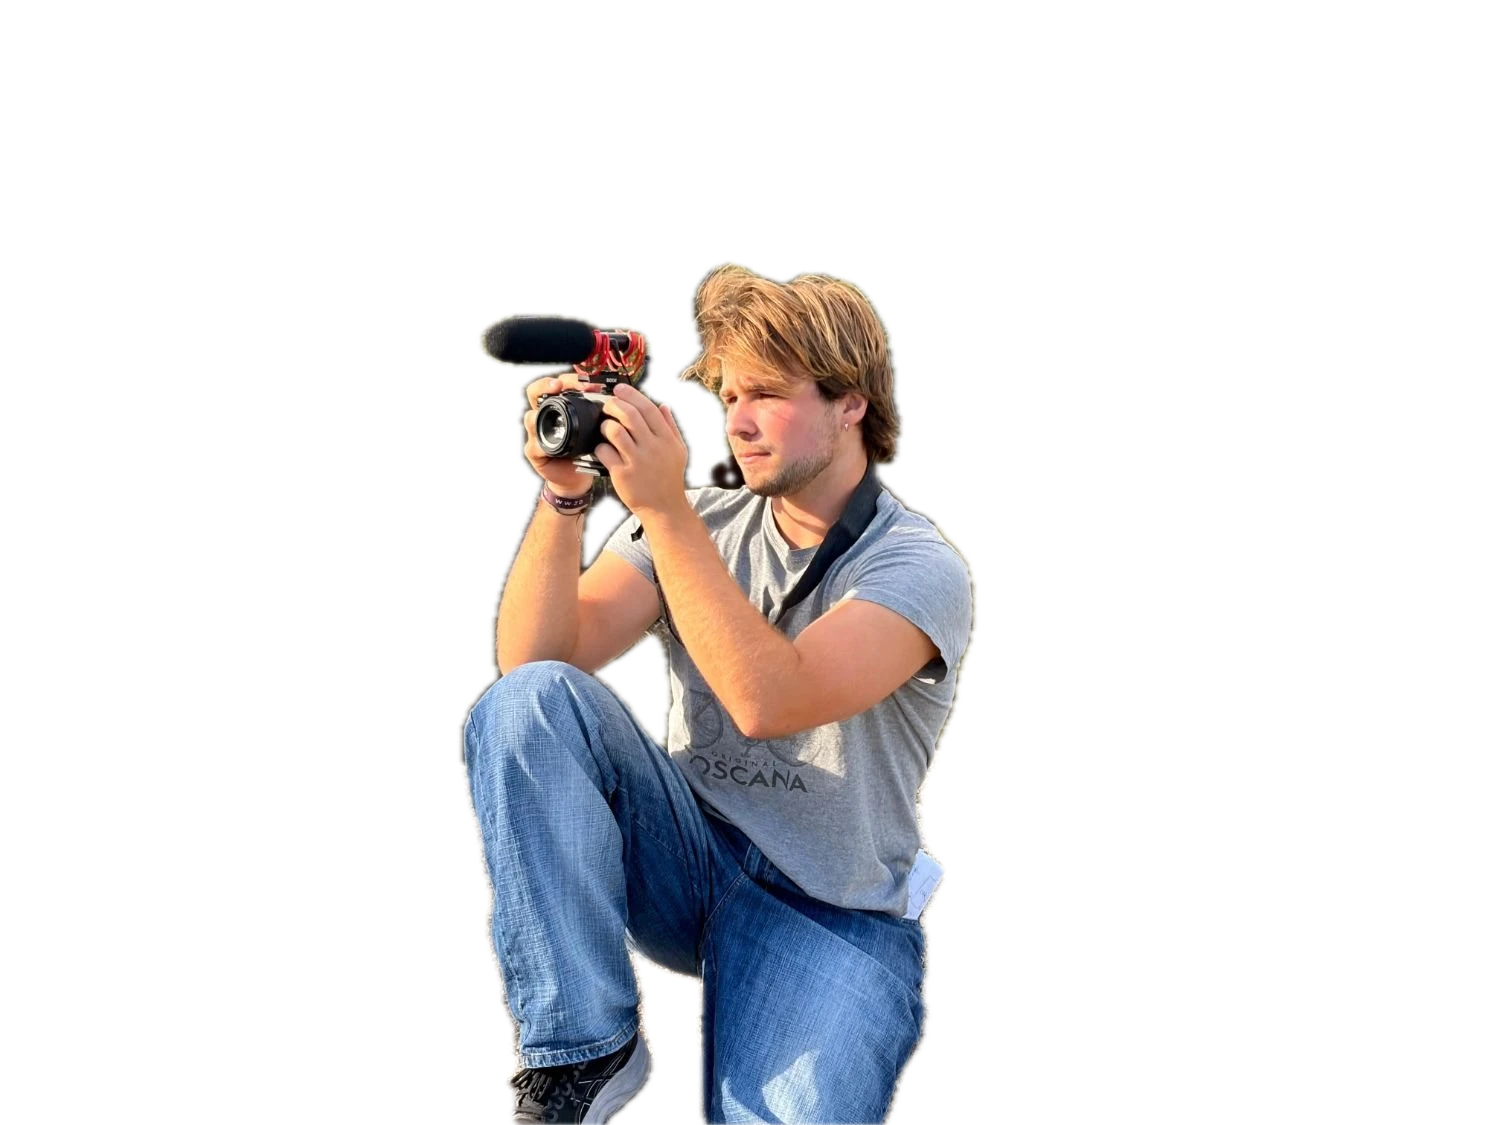
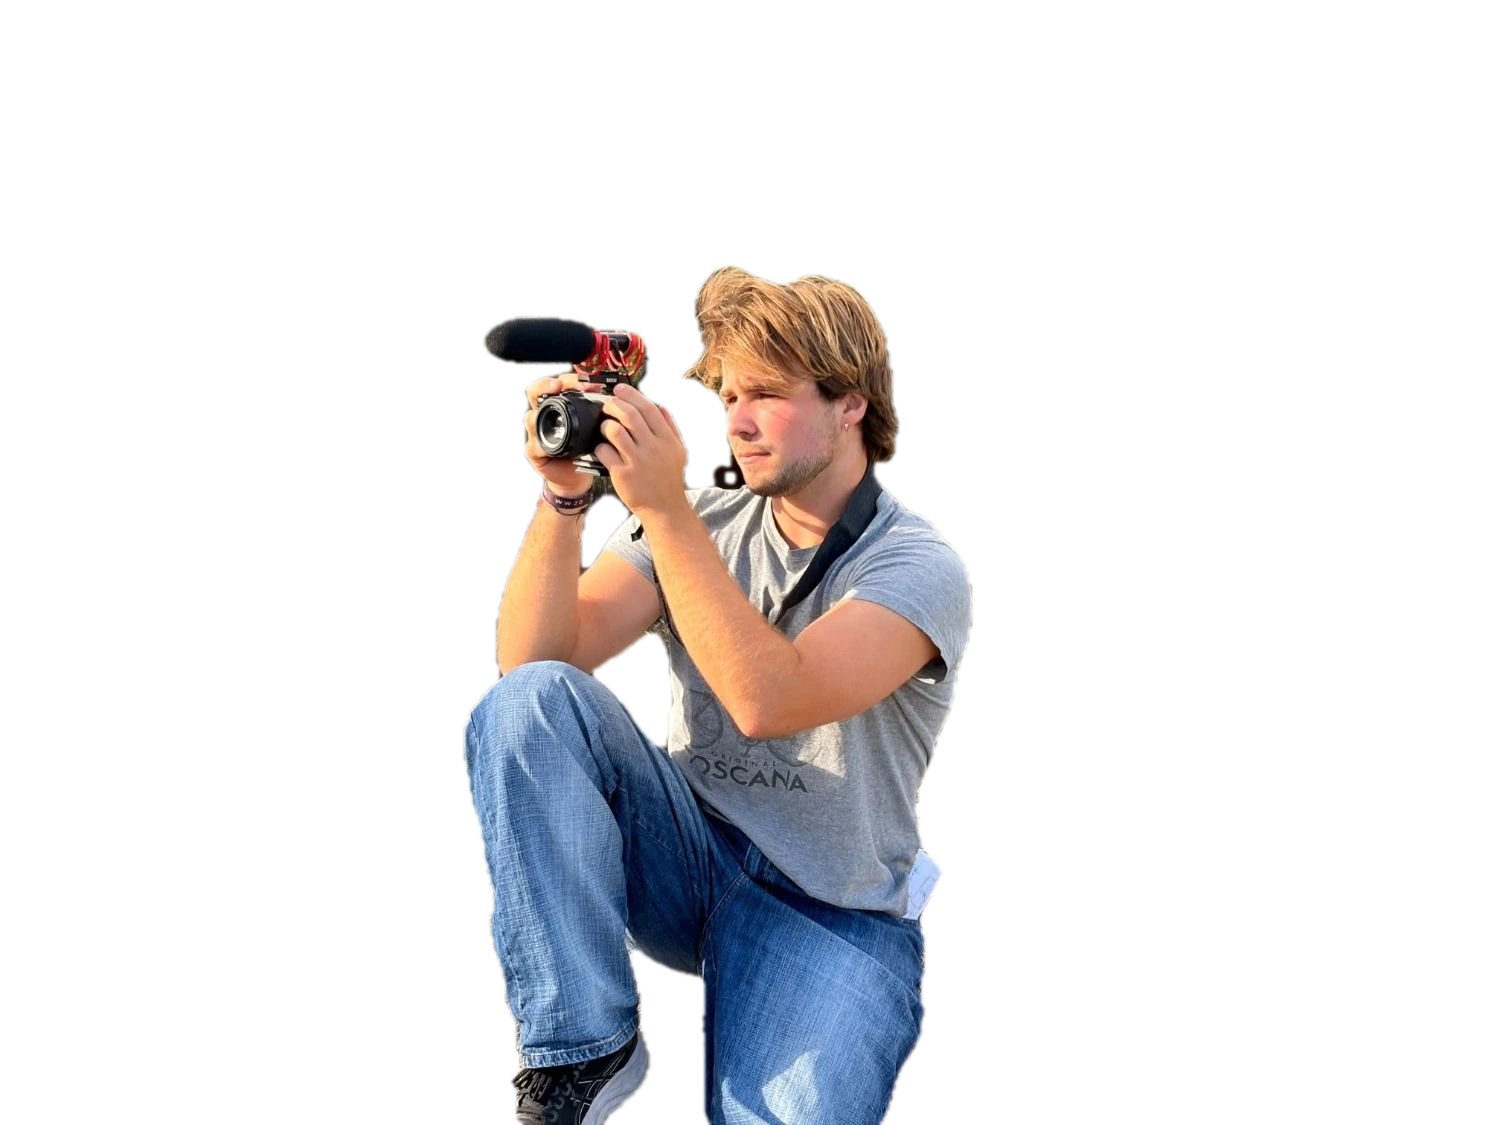
feat: Boulder to LA placeholder card w Parker's questions, cleaner cutout edge

diff --git a/src/styles.css b/src/styles.css
@@ -3148,3 +3148,12 @@ body:not(.is-home) .foot__pin { position: relative; height: 60svh; opacity: 1; }
   .irisout { height: 320vh !important; }
 }
 @media (min-width: 900px) { .irisout__card { transform: translate(calc((1 - var(--in, 0)) * 170%), -50%) rotate(calc((1 - var(--in, 0)) * 8deg - 2deg)) !important; } }
+
+/* Boulder to LA, until Parker answers: an index card on the black. */
+.flight-todo { padding: clamp(80px, 12vw, 160px) var(--gutter); background: var(--ground); }
+.flight-todo__card { position: relative; width: min(560px, 100%); margin: 0 auto; padding: 34px 38px 30px; color: #232220; transform: rotate(-1.2deg); background: url("/media/paper/printer.jpg") center / 520px, #f3efe6; background-blend-mode: multiply; box-shadow: 0 1px 1px rgba(0,0,0,0.3), 0 18px 34px rgba(0,0,0,0.5); background-image: repeating-linear-gradient(transparent 0 33px, rgba(70,110,170,0.28) 33px 34px), url("/media/paper/printer.jpg"); background-position: 0 58px, center; }
+.flight-todo__card::before { content: ""; position: absolute; top: 0; bottom: 0; left: 26px; width: 1px; background: rgba(200,60,70,0.45); }
+.ft__h { margin: 0 0 10px; font: 600 30px/1.1 "Caveat", cursive; }
+.ft__what, .ft__ask, .ft__qs { font: 500 23px/34px "Caveat", cursive; margin: 0; }
+.ft__ask { margin-top: 8px; }
+.ft__qs { padding-left: 22px; }

diff --git a/build.py b/build.py
@@ -494,10 +494,8 @@ def preview(home_html):
     after_about = (
         '<figure class="draft-frame"><img src="/media/draft/knolling.webp" alt="Parker\'s kit laid out on a desk" loading="lazy">'
         '<span class="draft-tag">Knolling, draft render</span></figure>'
-        '<section class="fl" aria-label="Boulder to Los Angeles"><span class="draft-tag">Flight, storyboard. One continuous take, dawn to dusk, films pinned where they happened</span>'
-        f'<ol class="fl__beats">{beats}</ol></section>'
     )
-    i = h.index('<section class="reels" id="films"')
+    i = h.index('<section class="flight-todo"')
     h = h[:i] + after_about + h[i:]
     h = h.replace('<div class="slate draft-slate">', '<div class="slate draft-slate"><span class="draft-tag">Slate, draft render</span>', 1)
     return h
@@ -610,6 +608,20 @@ def home(films):
   </div>
 </section>
 
+<section class="flight-todo" aria-label="Boulder to Los Angeles, coming soon">
+  <div class="flight-todo__card">
+    <p class="ft__h">Boulder &rarr; Los Angeles</p>
+    <p class="ft__what">One unbroken flight from where Parker started filming to where he is now, his films along the way. Coming soon.</p>
+    <p class="ft__ask">Parker, for this part:</p>
+    <ol class="ft__qs">
+      <li>What made you start filming in Boulder?</li>
+      <li>One real moment from high school in Boulder</li>
+      <li>One from the summer you made Somnambulist</li>
+      <li>One from getting into USC</li>
+      <li>One from your first semester in LA</li>
+    </ol>
+  </div>
+</section>
 <section class="reels" id="films" aria-label="Featured films">
   <div class="scene scene--films">
     <div class="scene__pin">
